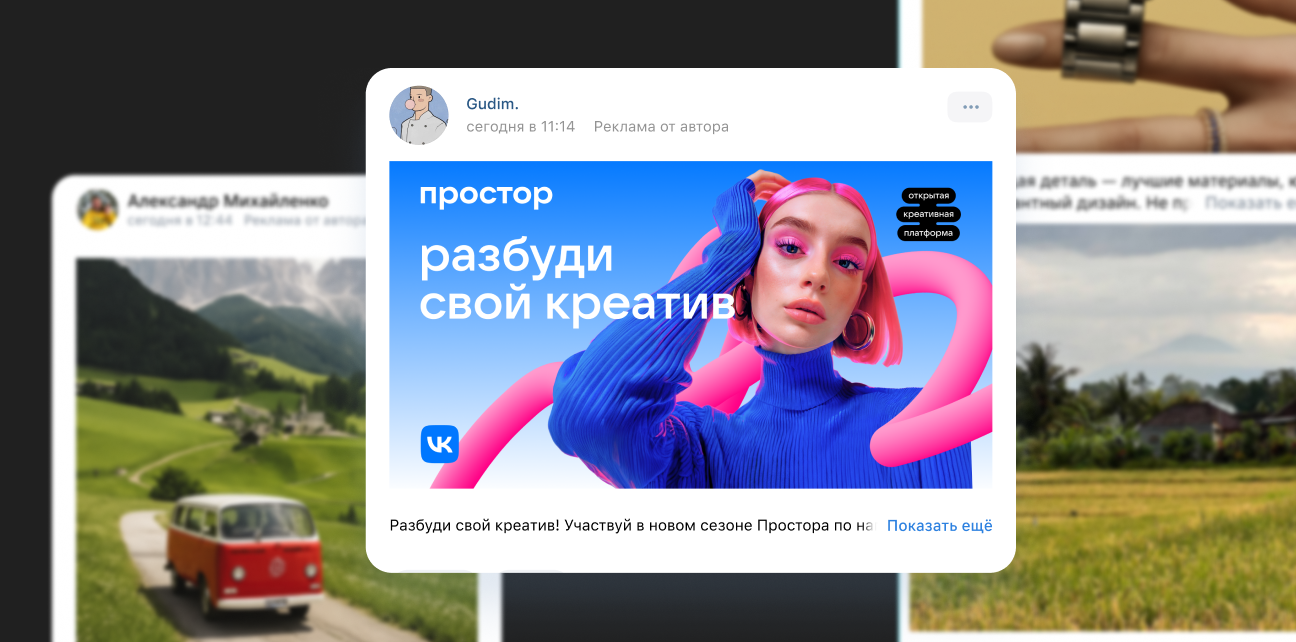
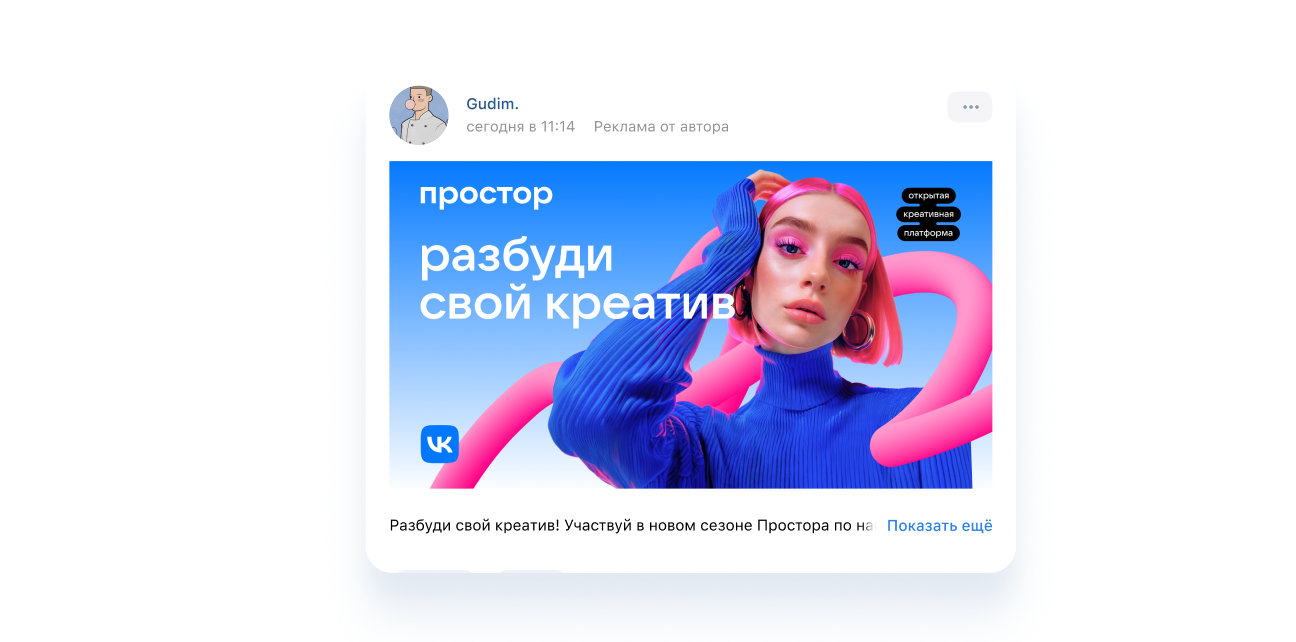
commit

diff --git a/src/components/Tile/tile.scss b/src/components/Tile/tile.scss
@@ -146,6 +146,44 @@
 				}
 			}
 		}
+		&_7 {
+			& .tile {
+				&__img {
+					& picture {
+						&:nth-child(2) {
+							top: 0;
+							left: 0;
+							transform: translateY(35px);
+							width: 100%;
+						}
+					}
+				}
+			}
+		}
+		&_8 {
+			& .tile {
+				&__img {
+					& picture {
+						bottom: 0px;
+						left: 0;
+						transform: translateY(25px);
+						width: 100%;
+					}
+				}
+			}
+		}
+		&_9 {
+			& .tile {
+				&__img {
+					& picture {
+						bottom: 0px;
+						left: 0;
+						transform: translateY(20px);
+						width: 100%;
+					}
+				}
+			}
+		}
 		&:hover {
 			& .tile {
 				&__body {

diff --git a/src/components/Tile/tile.css b/src/components/Tile/tile.css
@@ -144,6 +144,30 @@
   width: 100%;
 }
 
+.tile__slide_7 .tile__img picture:nth-child(2) {
+  top: 0;
+  left: 0;
+  -webkit-transform: translateY(35px);
+          transform: translateY(35px);
+  width: 100%;
+}
+
+.tile__slide_8 .tile__img picture {
+  bottom: 0px;
+  left: 0;
+  -webkit-transform: translateY(25px);
+          transform: translateY(25px);
+  width: 100%;
+}
+
+.tile__slide_9 .tile__img picture {
+  bottom: 0px;
+  left: 0;
+  -webkit-transform: translateY(20px);
+          transform: translateY(20px);
+  width: 100%;
+}
+
 .tile__slide:hover .tile__body {
   border-radius: 28px;
 }

diff --git a/src/toolkitRedux/toolkitSlice.js b/src/toolkitRedux/toolkitSlice.js
@@ -85,9 +85,14 @@ const defaultState = {
 								"desc": "Продвигайте товары самостоятельно или&nbsp;получайте заявки от&nbsp;рекламодателей",
 								"imgList": [
 									{
+										"desktop": "/img/tile/img7-2.png",
+										"mobile": ""
+									},
+									{
 										"desktop": "/img/tile/img7-1.png",
 										"mobile": "/img/tile/img7-1_mob.png"
 									}
+
 								]
 							},
 							{
